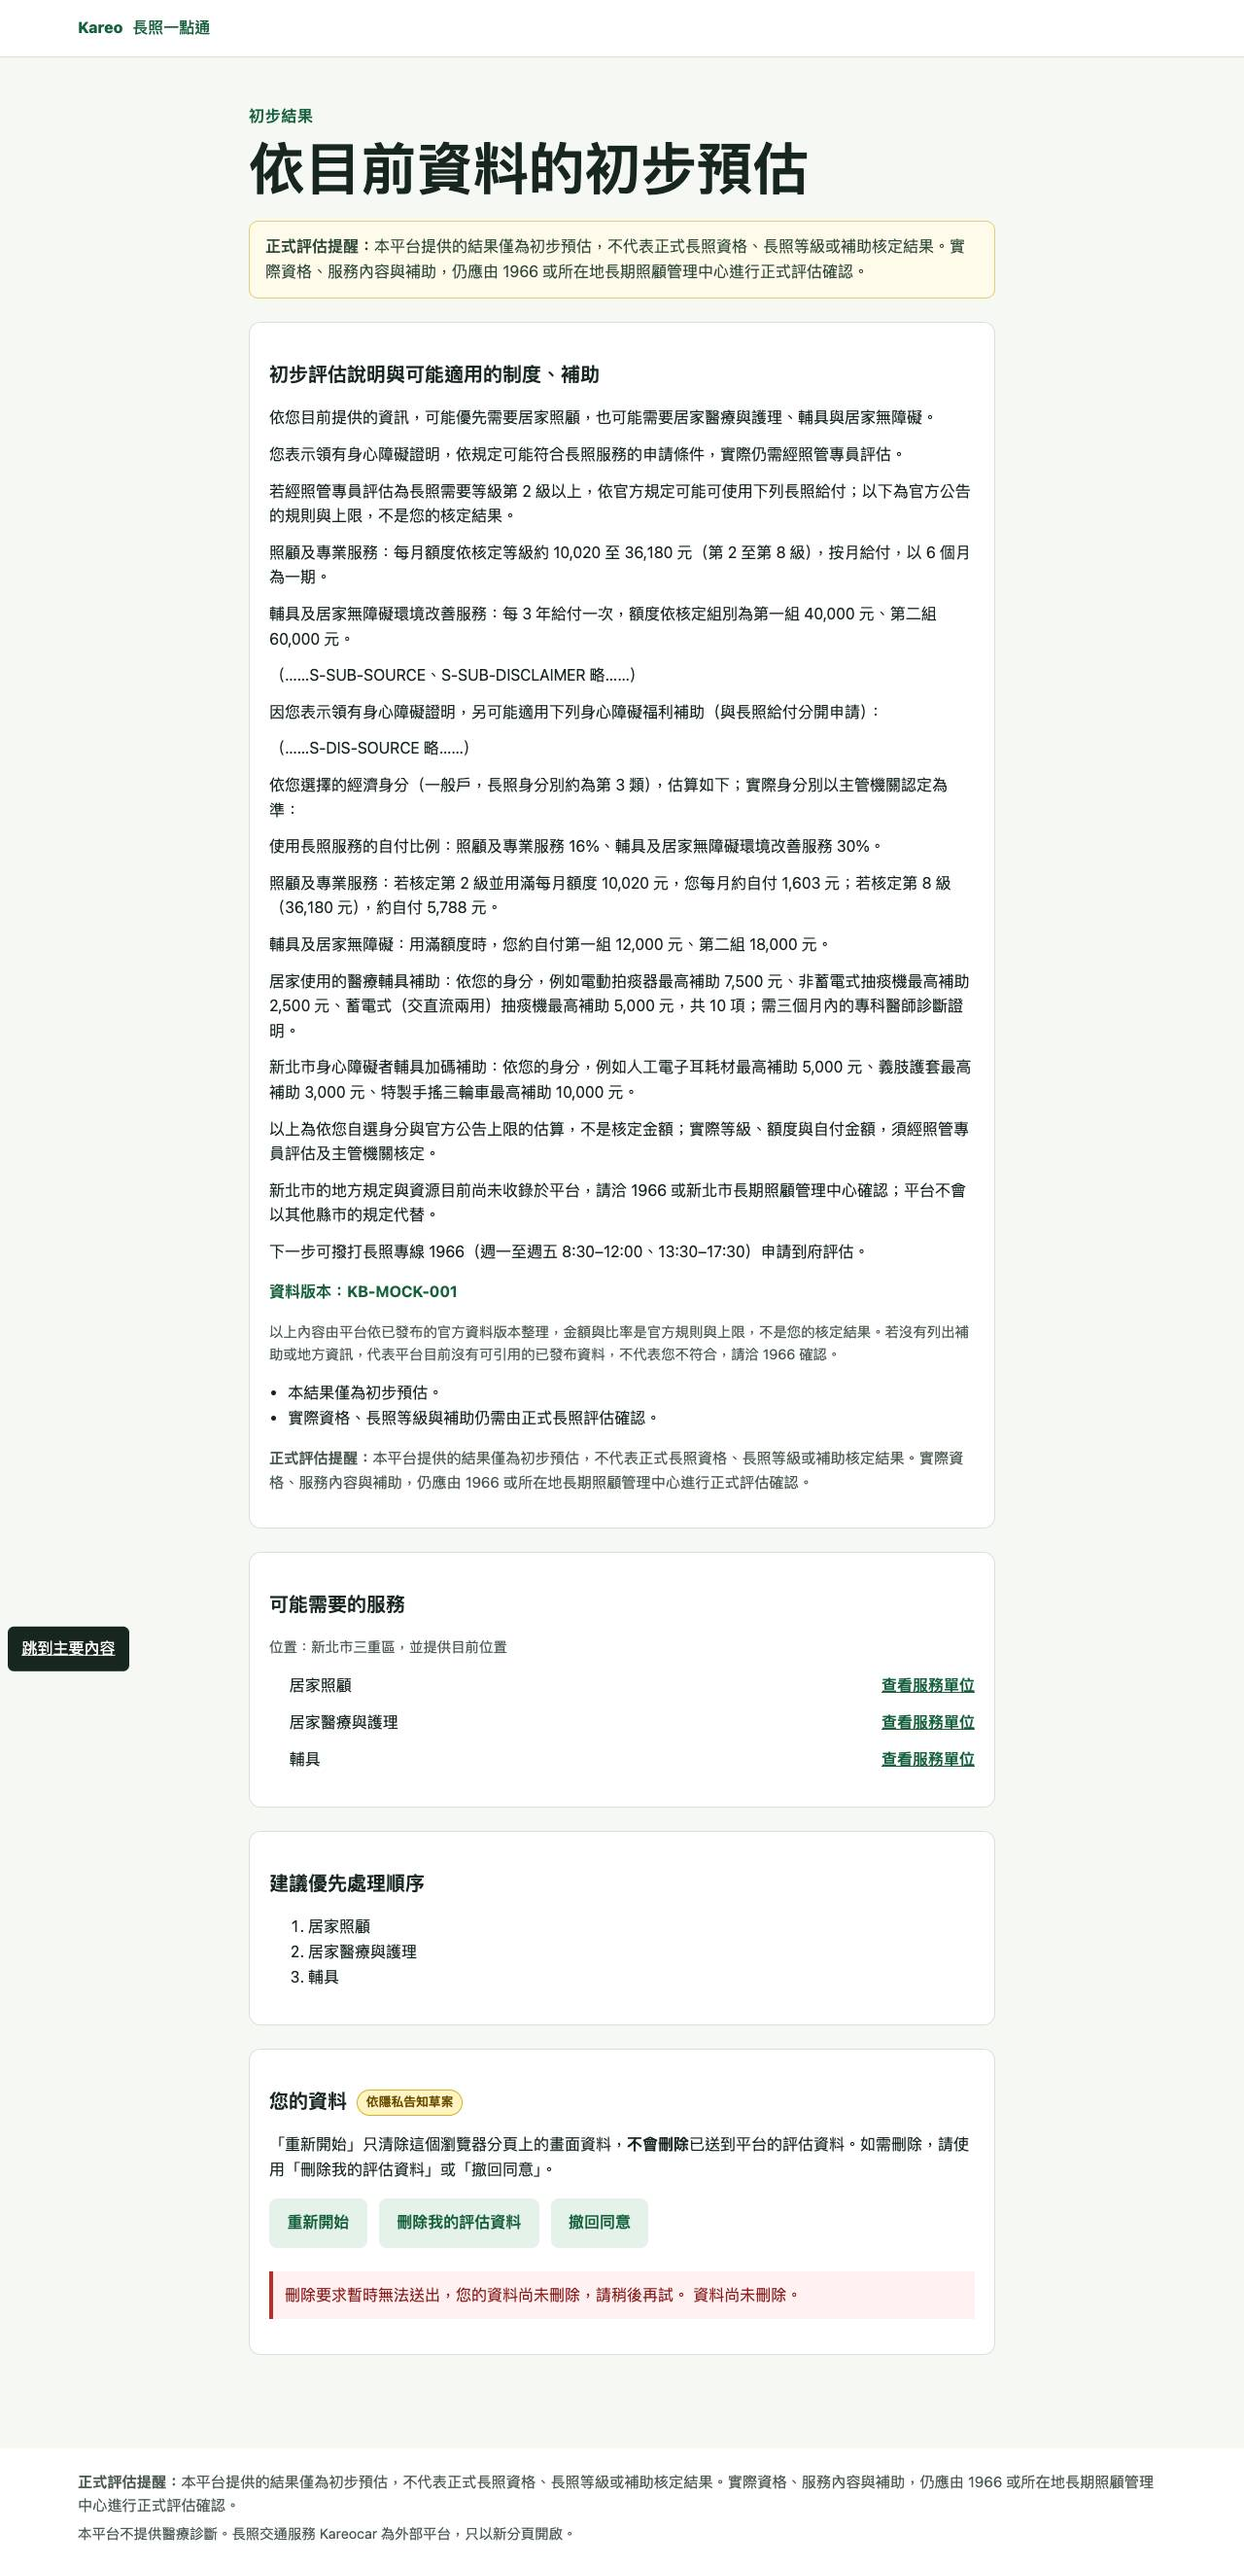
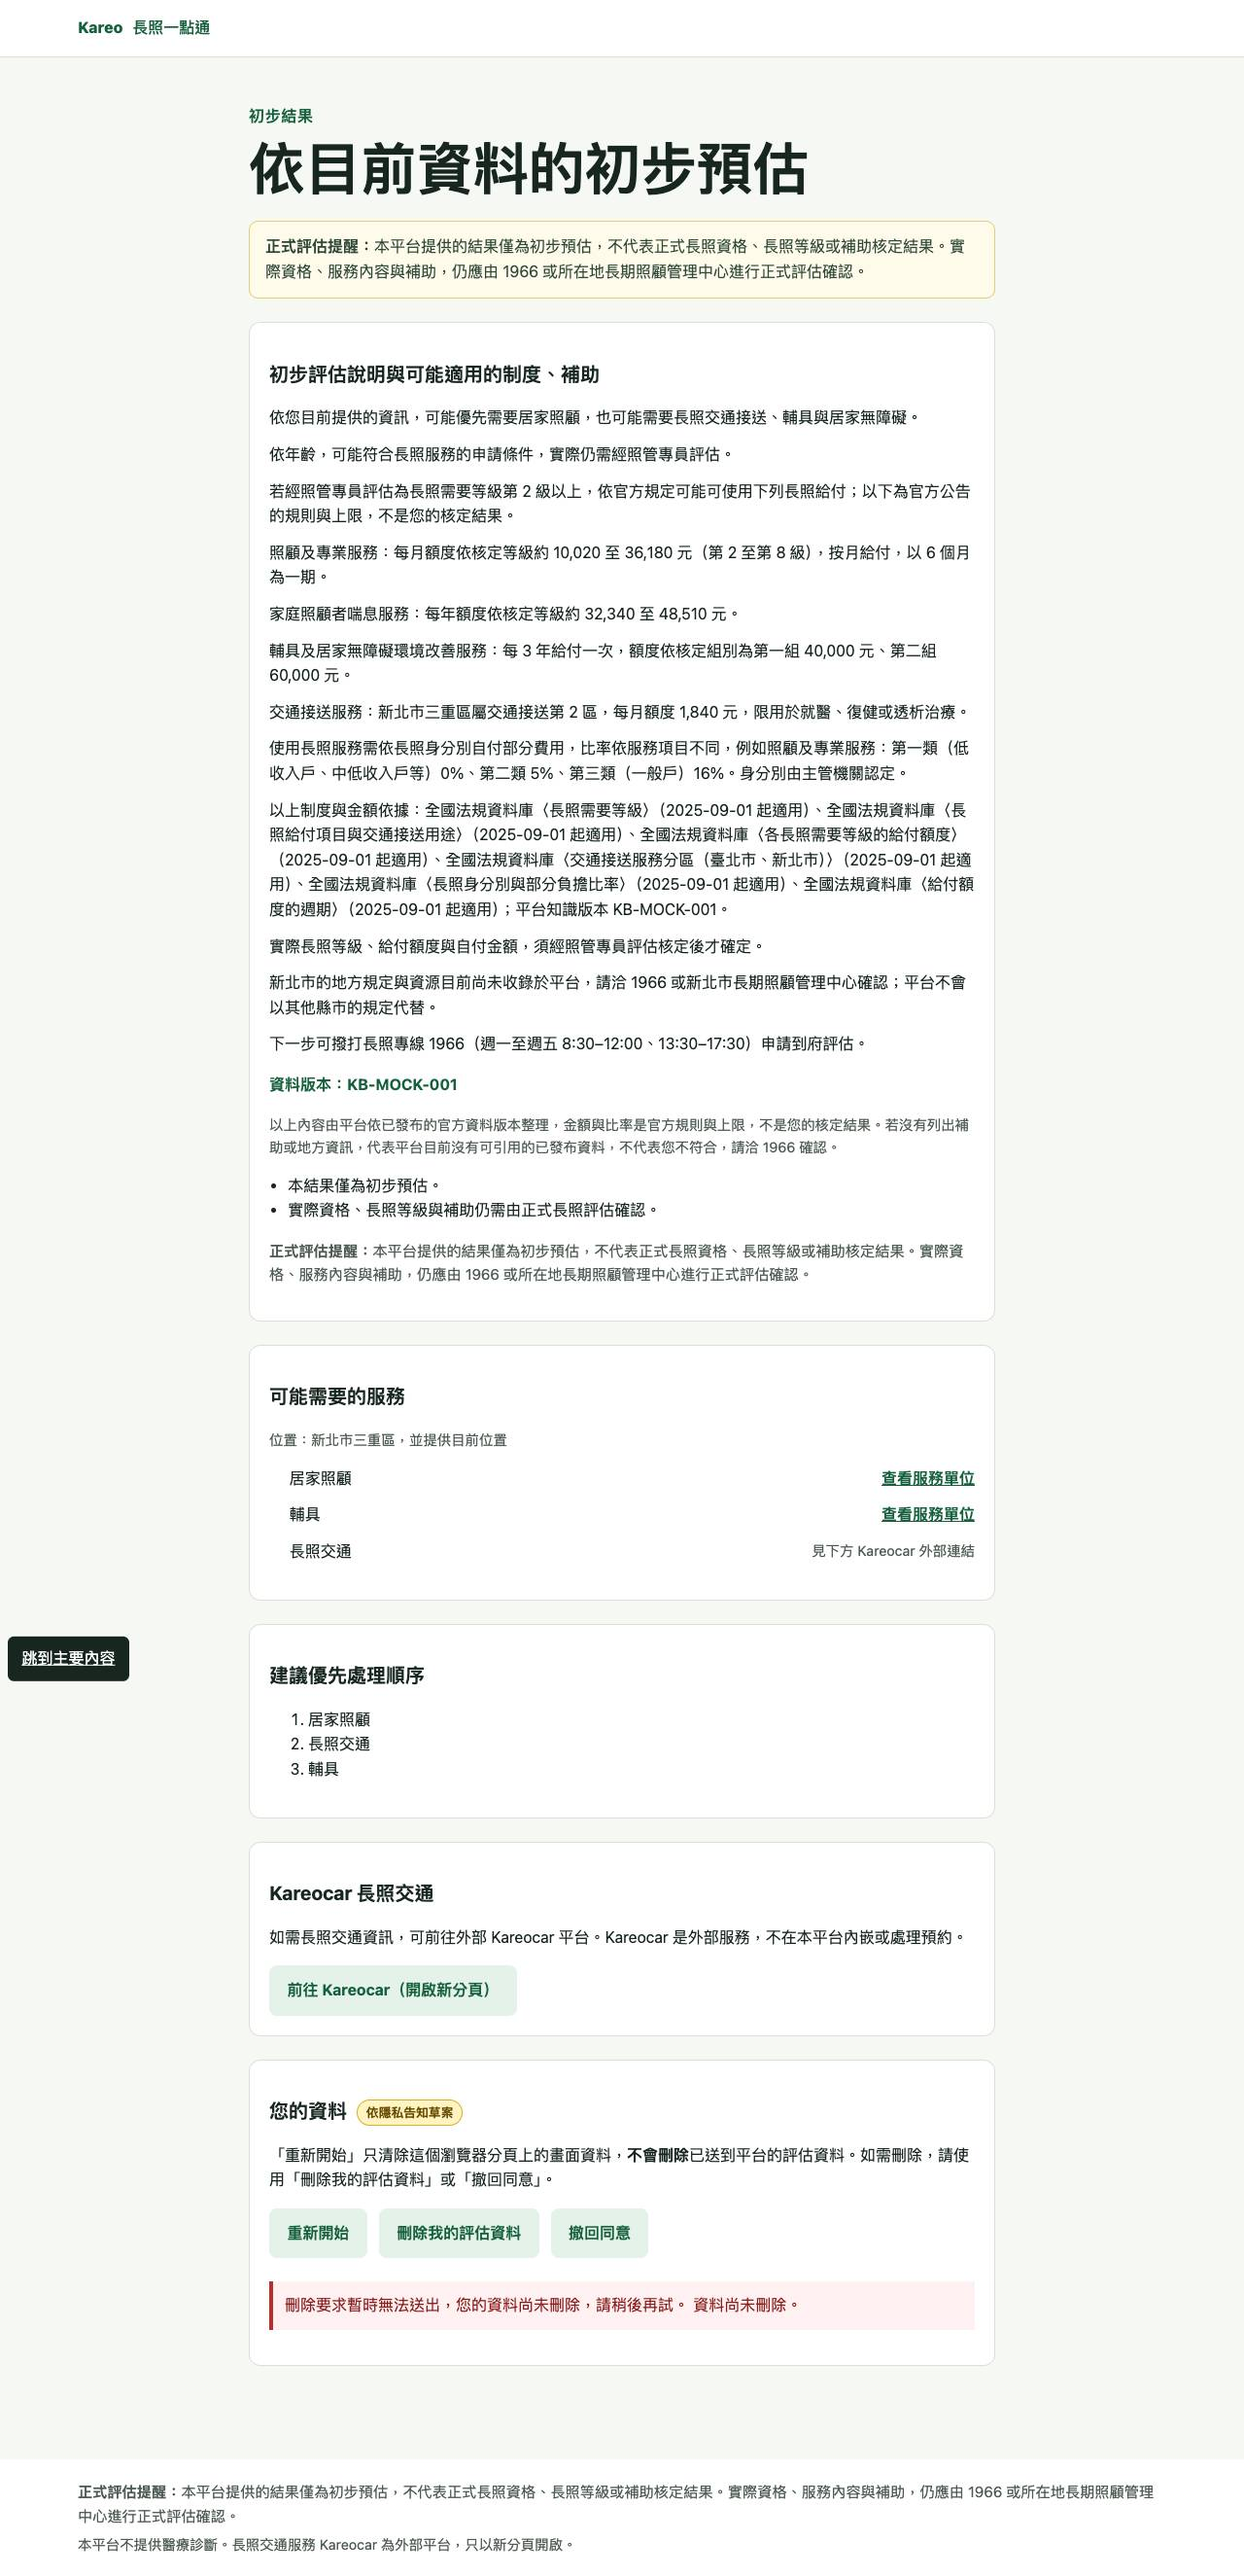
test(C-005): verify restart reset and keyboard flow (C-005-r3)

diff --git a/apps/web/tests/assessmentC005r2.test.ts b/apps/web/tests/assessmentC005r2.test.ts
@@ -1,11 +1,13 @@
 import assert from "node:assert/strict";
+import { readFileSync } from "node:fs";
 import { test } from "node:test";
+import { fileURLToPath } from "node:url";
 import { buildAssessmentRequest, defaultAssessmentForm } from "../src/assessment/assessmentRequest.ts";
 import { assessmentMockScenario, MOCK_STATES } from "../src/api/mockScenarios.ts";
 
 const district = { precision: "DISTRICT", city: "新北市", district: "三重區", lat: null, lng: null } as const;
 
-test("new assessment fields default and reset to explicit UNKNOWN values", () => {
+test("new assessment fields have explicit UNKNOWN defaults", () => {
   assert.equal(defaultAssessmentForm.disabilityCertificate, "UNKNOWN");
   assert.equal(defaultAssessmentForm.incomeCategory, "UNKNOWN");
   const changed = { ...defaultAssessmentForm, disabilityCertificate: "YES" as const, incomeCategory: "GENERAL" as const };
@@ -14,6 +16,12 @@ test("new assessment fields default and reset to explicit UNKNOWN values", () =>
     { disabilityCertificate: defaultAssessmentForm.disabilityCertificate, incomeCategory: defaultAssessmentForm.incomeCategory },
     { disabilityCertificate: "UNKNOWN", incomeCategory: "UNKNOWN" },
   );
+});
+
+test("the restart path restores defaultAssessmentForm instead of retaining prior answers", () => {
+  const appSource = readFileSync(fileURLToPath(new URL("../src/App.tsx", import.meta.url)), "utf8");
+  assert.match(appSource, /const clearState\s*=\s*useCallback\(\(\)\s*=>\s*\{[\s\S]*?setForm\(defaultAssessmentForm\)/);
+  assert.match(appSource, /restart\(\)[\s\S]*?clearState\(\)/);
 });
 
 test("payload always includes sessionId and both new fields, including unanswered values", () => {
